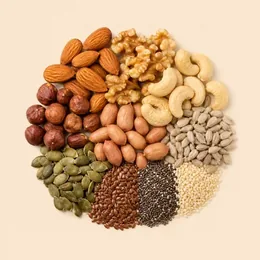
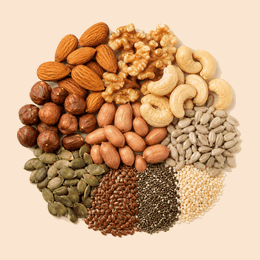
Uniforma iconos y completa categorias

diff --git a/js/app.js b/js/app.js
@@ -499,7 +499,9 @@ function vistaHome() {
           ).join('') +
         '</div>' +
         (paginasCats.length > 1
-          ? '<div class="cats-puntos" role="group" aria-label="Páginas de categorías">' + paginasCats.map((_, indice) =>
+          ? '<button class="cats-flecha cats-flecha--ant" type="button" data-cats-dir="-1" aria-label="Ver categorías anteriores" hidden>' + ICO.flecha + '</button>' +
+            '<button class="cats-flecha cats-flecha--sig" type="button" data-cats-dir="1" aria-label="Ver más categorías">' + ICO.flecha + '</button>' +
+            '<div class="cats-puntos" role="group" aria-label="Páginas de categorías">' + paginasCats.map((_, indice) =>
               '<button type="button" data-cats-ir="' + indice + '" aria-label="Ver categorías ' + (indice * 4 + 1) + ' a ' + Math.min((indice + 1) * 4, cats.length) + '"' + (indice === 0 ? ' aria-current="true"' : '') + '></button>'
             ).join('') + '</div>'
           : '') +
@@ -519,16 +521,16 @@ function vistaHome() {
     '<div class="titulo-filete"><h2>También podés</h2></div>' +
     '<div class="cats-grid">' +
       '<a class="cat-card" href="#/mix"><span class="cat-card__nom">Armá tu mix</span>' +
-        '<img class="cat-card__fig" src="assets/acceso-mix.webp" alt="" width="400" height="400" loading="lazy" decoding="async">' +
+        '<img class="cat-card__fig" src="assets/acceso-mix.webp?v=20260903b" alt="" width="400" height="400" loading="lazy" decoding="async">' +
         '<span class="cat-card__ver">Empezar ' + ICO.flecha + '</span></a>' +
       '<a class="cat-card" href="#/combos"><span class="cat-card__nom">Combos</span>' +
-        '<img class="cat-card__fig" src="assets/acceso-combos.webp" alt="" width="400" height="400" loading="lazy" decoding="async">' +
+        '<img class="cat-card__fig" src="assets/acceso-combos.webp?v=20260903b" alt="" width="400" height="400" loading="lazy" decoding="async">' +
         '<span class="cat-card__ver">Ver combos ' + ICO.flecha + '</span></a>' +
       '<a class="cat-card" href="#/como-comprar"><span class="cat-card__nom">Cómo comprar</span>' +
-        '<img class="cat-card__fig" src="assets/acceso-info.webp" alt="" width="400" height="400" loading="lazy" decoding="async">' +
+        '<img class="cat-card__fig" src="assets/acceso-info.webp?v=20260903b" alt="" width="400" height="400" loading="lazy" decoding="async">' +
         '<span class="cat-card__ver">Leer ' + ICO.flecha + '</span></a>' +
       '<a class="cat-card" href="#/catalogo?cat=sintacc"><span class="cat-card__nom">Sin TACC</span>' +
-        '<img class="cat-card__fig" src="assets/cat-sintacc.webp" alt="" width="400" height="400" loading="lazy" decoding="async">' +
+        '<img class="cat-card__fig" src="assets/cat-sintacc.webp?v=20260903b" alt="" width="400" height="400" loading="lazy" decoding="async">' +
         '<span class="cat-card__ver">Ver productos ' + ICO.flecha + '</span></a>' +
     '</div>' +
   '</div></section>';
@@ -539,12 +541,27 @@ function prepararCategoriasHome() {
   if (!pista) return;
   const paginas = $$('[data-cats-pagina]', pista);
   const puntos = $$('.cats-puntos [data-cats-ir]', pista.parentElement);
+  const flechas = $$('[data-cats-dir]', pista.parentElement);
   let cuadroPendiente = false;
+  let indiceActivo = 0;
 
   const marcarPagina = indice => {
+    indiceActivo = indice;
     puntos.forEach((punto, i) => {
       if (i === indice) punto.setAttribute('aria-current', 'true');
       else punto.removeAttribute('aria-current');
+    });
+    flechas.forEach(flecha => {
+      const direccion = Number(flecha.dataset.catsDir);
+      flecha.hidden = direccion < 0 ? indice === 0 : indice === paginas.length - 1;
+    });
+  };
+  const irAPagina = indice => {
+    const pagina = paginas[Math.max(0, Math.min(indice, paginas.length - 1))];
+    if (!pagina) return;
+    pista.scrollTo({
+      left: pagina.offsetLeft,
+      behavior: window.matchMedia('(prefers-reduced-motion: reduce)').matches ? 'auto' : 'smooth'
     });
   };
   const paginaVisible = () => {
@@ -564,13 +581,9 @@ function prepararCategoriasHome() {
     requestAnimationFrame(paginaVisible);
   }, { passive: true });
 
-  puntos.forEach((punto, indice) => punto.addEventListener('click', () => {
-    const pagina = paginas[indice];
-    if (!pagina) return;
-    pista.scrollTo({
-      left: pagina.offsetLeft,
-      behavior: window.matchMedia('(prefers-reduced-motion: reduce)').matches ? 'auto' : 'smooth'
-    });
+  puntos.forEach((punto, indice) => punto.addEventListener('click', () => irAPagina(indice)));
+  flechas.forEach(flecha => flecha.addEventListener('click', () => {
+    irAPagina(indiceActivo + Number(flecha.dataset.catsDir));
   }));
 }
 

diff --git a/css/estilos.css b/css/estilos.css
@@ -159,6 +159,7 @@ main{min-height:60vh;padding-bottom:40px}
 /* ---------- categorías ---------- */
 .cats{background:var(--oliva);color:var(--champan-claro);padding:28px 0}
 .cats-grid{display:grid;grid-template-columns:repeat(2,1fr);gap:12px}
+.cats-carrusel{position:relative}
 .cats-pista{
   display:flex;overflow-x:auto;scroll-snap-type:x mandatory;
   overscroll-behavior-x:contain;-webkit-overflow-scrolling:touch;
@@ -179,6 +180,7 @@ main{min-height:60vh;padding-bottom:40px}
   background:rgba(250,244,233,.42);transition:inset .2s ease,background-color .2s ease;
 }
 .cats-puntos button[aria-current="true"]::before{inset:14px 9px;background:var(--champan-claro)}
+.cats-flecha{display:none}
 .cat-card{
   background:var(--crema-card);color:var(--marron-txt);
   border-radius:var(--r-lg);padding:14px;
@@ -441,6 +443,20 @@ main{min-height:60vh;padding-bottom:40px}
   .cats-pagina{grid-template-columns:repeat(4,minmax(0,1fr));gap:14px}
   .cats-pagina--2 .cat-card:first-child{grid-column:2}
   .cats-pagina--1 .cat-card:first-child{grid-column:2}
+  .cats-puntos{display:none}
+  .cats-flecha{
+    position:absolute;top:50%;z-index:3;display:flex;align-items:center;justify-content:center;
+    width:44px;height:44px;padding:0;border:1px solid var(--linea);border-radius:50%;
+    color:var(--russet);background:var(--champan-claro);
+    box-shadow:0 7px 18px rgba(63,36,22,.18);
+    transform:translateY(-50%);transition:transform .2s ease,background-color .2s ease;
+  }
+  .cats-flecha[hidden]{display:none}
+  .cats-flecha--ant{left:-14px}
+  .cats-flecha--ant svg{transform:rotate(180deg)}
+  .cats-flecha--sig{right:-14px}
+  .cats-flecha:hover{background:var(--crema-card);transform:translateY(-50%) scale(1.04)}
+  .cats-flecha:active{transform:translateY(-50%) scale(.96)}
   .mix-grid{grid-template-columns:repeat(3,1fr)}
   .prod__nom{font-size:17px}
 }
@@ -966,8 +982,9 @@ body::before{
   align-items:center;
   text-align:center;
   gap:10px;
+  background:var(--foto-crema);
 }
-.cat-card__nom{max-width:none}
+.cat-card__nom{max-width:none;min-height:2.2em;display:flex;align-items:center;justify-content:center}
 .cat-card__fig{
   position:static;
   align-self:center;
@@ -981,17 +998,17 @@ body::before{
 .cat-card__ver{justify-content:center}
 
 @media (max-width:639px){
-  .cat-card{height:auto;min-height:0;padding:14px 10px 12px}
+  .cat-card{height:auto;min-height:0;padding:14px 10px 12px;background:var(--foto-crema)}
   .cat-card__nom{max-width:none;font-size:14px}
-  .cat-card__fig{position:static;right:auto;bottom:auto;width:88px;height:88px;border-radius:10px;object-fit:contain}
+  .cat-card__fig{position:static;right:auto;bottom:auto;width:110px;height:110px;border-radius:10px;object-fit:contain}
 }
 @media (min-width:640px){
-  .cat-card{min-height:0;padding:20px 16px 18px}
-  .cat-card__fig{width:112px;height:112px}
+  .cat-card{min-height:0;padding:20px 12px 18px}
+  .cat-card__fig{width:min(136px,100%);height:auto;aspect-ratio:1}
 }
 @media (min-width:960px){
   .cat-card{padding:24px 18px 20px}
-  .cat-card__fig{width:130px;height:130px}
+  .cat-card__fig{width:148px;height:148px}
 }
 
 /* ============================================================
@@ -1504,7 +1521,7 @@ body.compacto .icon-btn svg{width:22px;height:22px}
   }
   .cat-card__nom{min-height:2.25em;font-size:18px;line-height:1.1;display:flex;align-items:center;justify-content:center}
   .cat-card__fig{
-    width:106px;height:106px;background:var(--foto-crema);filter:none;
+    width:148px;height:148px;background:var(--foto-crema);filter:none;
   }
   .cat-card__ver{font-size:10.5px}
 

diff --git a/index.html b/index.html
@@ -18,7 +18,7 @@
 <link rel="preconnect" href="https://fonts.googleapis.com">
 <link rel="preconnect" href="https://fonts.gstatic.com" crossorigin>
 <link href="https://fonts.googleapis.com/css2?family=Playfair+Display:wght@500;600&family=Karla:wght@400;500;600&display=swap" rel="stylesheet">
-<link rel="stylesheet" href="css/estilos.css?v=20260903x">
+<link rel="stylesheet" href="css/estilos.css?v=20260903y">
 </head>
 <body>
 
@@ -163,7 +163,7 @@
 
 <div class="toast" id="toast" role="status" aria-live="polite"></div>
 
-<script src="js/datos.js?v=20260903x"></script>
-<script src="js/app.js?v=20260903x"></script>
+<script src="js/datos.js?v=20260903y"></script>
+<script src="js/app.js?v=20260903y"></script>
 </body>
 </html>

diff --git a/scripts/icono-categoria.py b/scripts/icono-categoria.py
@@ -1,0 +1,72 @@
+#!/usr/bin/env python3
+"""Normaliza fondo, escala y centrado de un ícono fotográfico de categoría.
+
+Uso: python3 scripts/icono-categoria.py <entrada> <salida.webp>
+"""
+import sys
+from pathlib import Path
+
+import numpy as np
+from PIL import Image
+
+FONDO = np.array([250, 230, 208], dtype=float)  # #FAE6D0
+TAM = 260
+DIAMETRO = 226
+CERCA, LEJOS = 32.0, 82.0
+
+
+def marco(a):
+    grosor = max(8, min(a.shape[:2]) // 120)
+    return np.concatenate([
+        a[:grosor].reshape(-1, 3),
+        a[-grosor:].reshape(-1, 3),
+        a[:, :grosor].reshape(-1, 3),
+        a[:, -grosor:].reshape(-1, 3),
+    ])
+
+
+def preparar(entrada, salida):
+    original = np.asarray(Image.open(entrada).convert('RGB'), dtype=float)
+    fondo_original = np.median(marco(original), axis=0)
+    distancia = np.sqrt(((original - fondo_original) ** 2).sum(axis=-1))
+
+    peso_fondo = np.clip((LEJOS - distancia) / (LEJOS - CERCA), 0.0, 1.0)[..., None]
+    corregida = np.clip(original + (FONDO - fondo_original) * peso_fondo, 0, 255).astype(np.uint8)
+    corregida[distancia <= CERCA] = FONDO.astype(np.uint8)
+
+    contenido = distancia > 25
+    ys, xs = np.where(contenido)
+    if not len(xs):
+        raise ValueError('No se pudo detectar el contenido del ícono')
+
+    x0, x1 = int(xs.min()), int(xs.max()) + 1
+    y0, y1 = int(ys.min()), int(ys.max()) + 1
+    recorte = Image.fromarray(corregida[y0:y1, x0:x1], 'RGB')
+    escala = DIAMETRO / max(recorte.size)
+    nuevo = tuple(max(1, round(valor * escala)) for valor in recorte.size)
+    recorte = recorte.resize(nuevo, Image.Resampling.LANCZOS)
+
+    lienzo = Image.new('RGB', (TAM, TAM), tuple(FONDO.astype(np.uint8)))
+    posicion = ((TAM - nuevo[0]) // 2, (TAM - nuevo[1]) // 2)
+    lienzo.paste(recorte, posicion)
+
+    salida = Path(salida)
+    salida.parent.mkdir(parents=True, exist_ok=True)
+    base = np.asarray(lienzo)
+    fondo_plano = np.sqrt(((base.astype(float) - FONDO) ** 2).sum(axis=-1)) < 18
+    reducida = lienzo.quantize(colors=160, method=Image.Quantize.MEDIANCUT, dither=Image.Dither.NONE).convert('RGB')
+    reducida = np.asarray(reducida).copy()
+    reducida[fondo_plano] = FONDO.astype(np.uint8)
+    Image.fromarray(reducida).save(salida, 'WEBP', lossless=True, method=6)
+    comprobacion = np.asarray(Image.open(salida).convert('RGB'))
+    fondo_final = np.median(marco(comprobacion), axis=0)
+    print('%-18s contenido %dx%d → %dx%d · %d bytes' % (
+        salida.name, x1 - x0, y1 - y0, nuevo[0], nuevo[1], salida.stat().st_size
+    ))
+    print(' ' * 19 + 'fondo final #%02X%02X%02X' % tuple(fondo_final.astype(int)))
+
+
+if __name__ == '__main__':
+    if len(sys.argv) != 3:
+        raise SystemExit('Uso: icono-categoria.py <entrada> <salida.webp>')
+    preparar(sys.argv[1], sys.argv[2])

diff --git a/CLAUDE.md b/CLAUDE.md
@@ -231,10 +231,18 @@ colores). Si hace falta un tono que no existe, agregarlo como variable, no suelt
 dietética no tiene veinte años. El contraste mínimo es 4,5 — el oliva `--oliva` sobre blanco da
 4,58, así que **no aclarar ese verde** para textos en blanco.
 
-**Peso.** Fotos de producto a 800x800 webp (~60 KB). Íconos del inicio a 260x260 (~12 KB).
+**Peso.** Fotos de producto a 800x800 webp (~60 KB). Íconos del inicio a 260x260.
 Hero móvil ~110 KB, hero escritorio ~120 KB. Antes de subir una imagen, pasarla por
 `scripts/foto-producto.py`. Si una imagen deja de usarse, **borrarla**: había 793 KB de heros
 viejos sin referencia.
+
+**Íconos del inicio.** Hay ocho categorías visibles, ordenadas alfabéticamente y paginadas de
+cuatro en cuatro. Mobile conserva la grilla 2×2, el swipe y los puntos; desde 640 px se usan
+flechas laterales y no se muestran puntos. Todos los íconos, incluidos `acceso-mix.webp`,
+`acceso-combos.webp` y `acceso-info.webp`, llevan lienzo 260×260, contenido visual de hasta
+226 px y fondo plano exacto `--foto-crema` (`#FAE6D0`). Normalizarlos con
+`scripts/icono-categoria.py`; no corregir diferencias de fondo agregando otro crema en CSS.
+Las categorías incorporadas para la demo son `Conservas` y `Suplementos naturales`.
 
 **CSS.** Hoy hay selectores definidos hasta once veces (`.cat-card__fig`, `.cat-card`, `.hero`).
 La mayoría son legítimos, uno por tamaño de pantalla, pero conviene **editar la regla que ya
